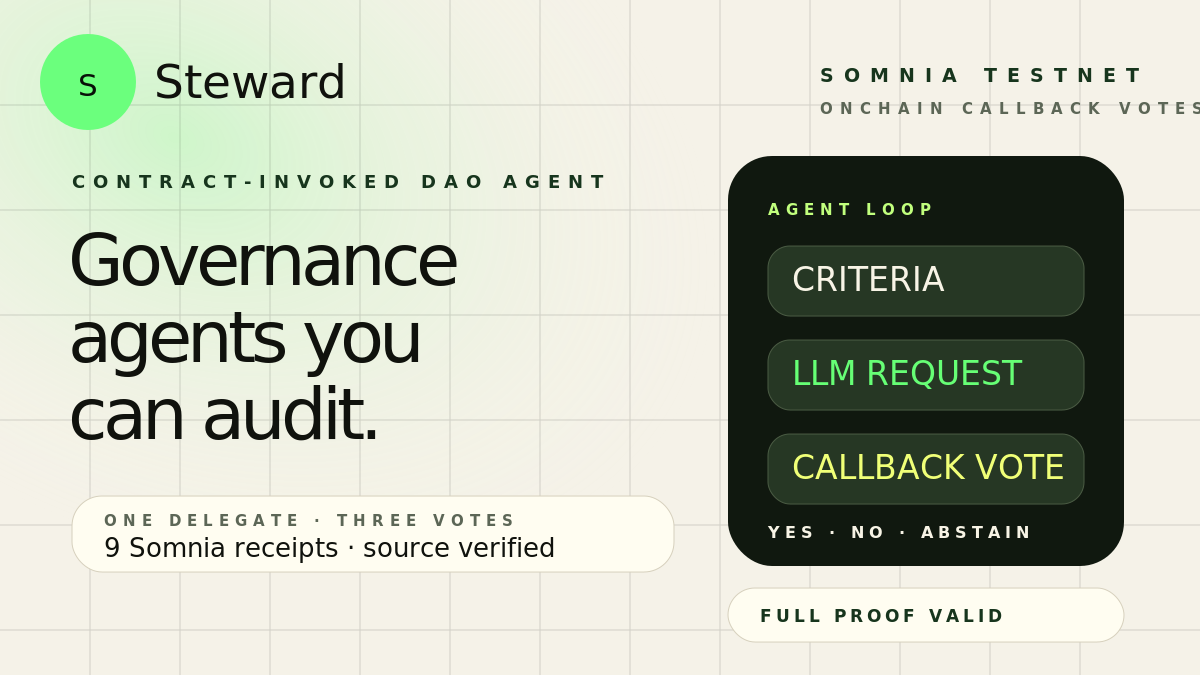
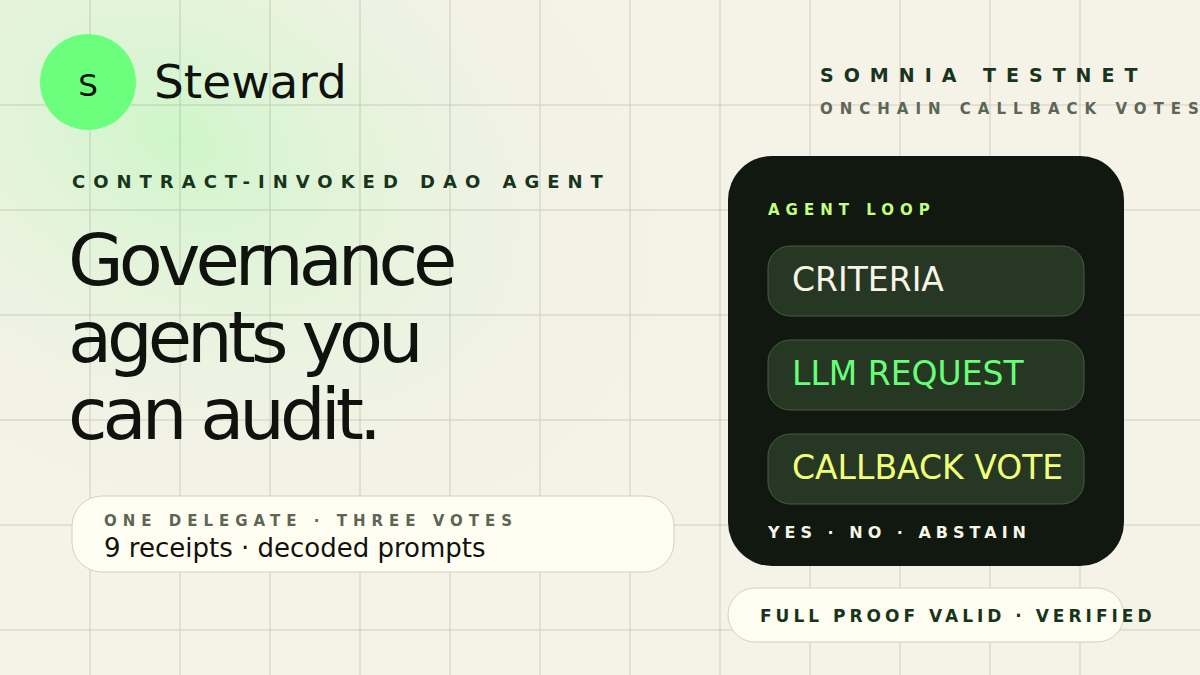
Sharpen Steward launch metadata

diff --git a/web/index.html b/web/index.html
@@ -5,23 +5,26 @@
     <meta name="viewport" content="width=device-width, initial-scale=1.0" />
     <meta
       name="description"
-      content="Auditable Somnia governance agents: criteria stored onchain, live LLM request, async callback vote, and nine receipt proofs."
+      content="Auditable Somnia governance agents: criteria stored onchain, decoded LLM request payloads, async callback votes, and nine receipt proofs."
     />
     <meta property="og:title" content="Steward · Auditable Somnia Governance Agents" />
     <meta
       property="og:description"
-      content="Criteria stored onchain, live LLM request, callback-cast YES/NO/ABSTAIN votes, and nine Somnia receipt proofs."
+      content="Criteria stored onchain, decoded inferString prompts, callback-cast YES/NO/ABSTAIN votes, and nine Somnia receipt proofs."
     />
     <meta property="og:type" content="website" />
     <meta property="og:url" content="https://steward-ashy.vercel.app" />
     <meta property="og:image" content="https://steward-ashy.vercel.app/og.png" />
+    <meta property="og:image:width" content="1200" />
+    <meta property="og:image:height" content="675" />
     <meta name="twitter:card" content="summary_large_image" />
     <meta name="twitter:title" content="Steward · Auditable Somnia Governance Agents" />
     <meta
       name="twitter:description"
-      content="Contract-invoked Somnia Agent voting with YES, NO, ABSTAIN, and nine receipt proofs."
+      content="Contract-invoked Somnia Agent voting with decoded LLM prompts, YES/NO/ABSTAIN outcomes, and nine receipt proofs."
     />
     <meta name="twitter:image" content="https://steward-ashy.vercel.app/og.png" />
+    <meta name="theme-color" content="#6bff7d" />
     <link rel="icon" type="image/svg+xml" href="/favicon.svg" />
     <title>Steward · Auditable Somnia Governance Agents</title>
   </head>